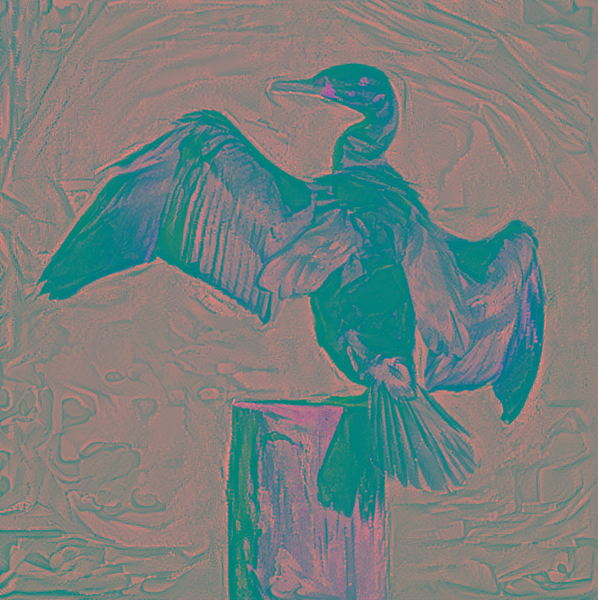
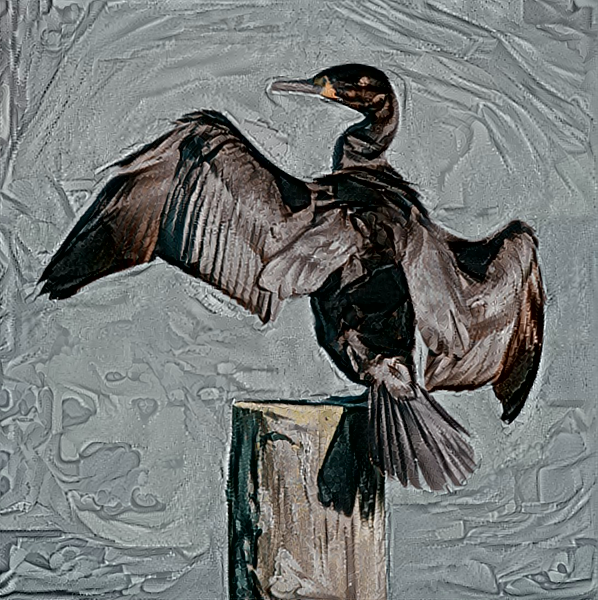
color_transfer bug fixed

diff --git a/backend/postprocessing/color_transfer.py b/backend/postprocessing/color_transfer.py
@@ -37,15 +37,18 @@ def match_histograms(source, template):
 
 # util function to preserve image color
 def original_color_transform(content, generated, mask=None, hist_match=0, mode='YCbCr'):
-    generated = np.asarray(toimage(generated, mode='RGB'))
+    generated = fromimage(toimage(generated, mode='RGB'), mode=mode)  # Convert to YCbCr color space
+    # generated = np.asarray(toimage(generated, mode='RGB').convert(mode))
     # FIXME
-    generated.convert('YCbCr')  # Convert to YCbCr color space
+    # generated.convert('YCbCr')  # Convert to YCbCr color space
+    # content = np.asarray(toimage(content, mode='RGB'))
 
     if mask is None:
         if hist_match == 1:
             for channel in range(3):
                 generated[:, :, channel] = match_histograms(generated[:, :, channel], content[:, :, channel])
         else:
+            # print('yes')
             generated[:, :, 1:] = content[:, :, 1:]
     else:
         width, height, channels = generated.shape
@@ -59,7 +62,8 @@ def original_color_transform(content, generated, mask=None, hist_match=0, mode='
                     else:
                         generated[i, j, 1:] = content[i, j, 1:]
 
-    generated = np.asarray(toimage(generated, mode=mode))  # Convert to RGB color space
+    # generated = np.asarray(toimage(generated, mode=mode).convert('RGB'))  # Convert to RGB color space
+    generated = fromimage(toimage(generated, mode=mode), mode='RGB')  # Convert to RGB color space
     return generated
 
 

diff --git a/backend/postprocessing/utils.py b/backend/postprocessing/utils.py
@@ -48,16 +48,11 @@ def imsave(path, img):
     return
     
 
-def fromimage(img, mode='RGB'):
-    if mode == 'RGB':
-        img = color.lab2rgb(img)
-    else:
-        img = color.rgb2lab(img)
-    return img
-
+def fromimage(img, mode="RGB"):
+    return np.array(img.convert(mode))
 
 def toimage(arr, mode='RGB'):
-    return Image.fromarray(np.uint8(arr)).convert(mode)
+    return Image.fromarray(arr, mode)
 
 def drawhist(path, savepath):
     src = Image.open(path)

diff --git a/backend/test.py b/backend/test.py
@@ -6,4 +6,4 @@ from postprocessing.color_transfer import color_trans
 # match("fdm", Params(param))
 
 color_trans("bird_muse_rgb_19_at_iteration_50.png", "bird.png", mask=0, hist_match=0)
-
+# color_trans("xxx.png", "golden_gate.jpg", mask=0, hist_match=0)
